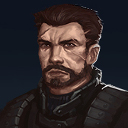
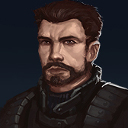
agent loyal, hotfix, CSS animations on close of selected components

diff --git a/src/client/mission/agentstier/buttons/missionendbutton.react.js b/src/client/mission/agentstier/buttons/missionendbutton.react.js
@@ -7,37 +7,36 @@ import Component from '../../../components/component.react';
 import React from 'react';
 import {msg} from '../../../intl/store';
 import immutable from 'immutable';
-// var io = require('socket.io-client');
+import $ from 'jquery';
 
 class MissionEndButton extends Component {
-  end() {
+  animateOut() {
+    const {mission, tutorial} = this.props;
+    $('#MissionResultsWindow').addClass('animated').one('webkitAnimationEnd mozAnimationEnd MSAnimationEnd oanimationend animationend', () => {
+      missionActions.end(mission);
+      if (tutorial && !tutorial.getIn(['firstmission', 'done']))
+        tutorialActions.firstMissionDone();
+      missionActions.removeCompletedMission();
+      missionActions.agentsAreBackFromMission();
+      missionActions.setDefault();
+    });
+  }
+
+  handleMissionEnd() {
     const {jsonapi, mission, tutorial} = this.props;
     const missionjs = mission.toJS();
-    // in order to actualize agentondisplay
-    // TODO: there must be some easy way to actualize the state of agent on display, gotta find it or else write function
     socket.emit('mission', missionjs); // eslint-disable-line no-undef
     socket.on('new mission', (gamemission) => { // eslint-disable-line no-undef
       const countrystats = jsonapi.get('countrystats');
       const countrystat = jsonapi.getIn(['countrystats', countrystats.indexOf(countrystats.find(countrystat => countrystat.get('name') === gamemission.inCountry))]);
-      // console.log('checking for obscurity save');
       var probability = Math.random();
       var border = 1 / (1 + 2 * countrystat.get('obscurity'));
       var chance = probability < border;
-      // console.log('border is' + border);
-      // console.log('probability is ' + probability);
-      // console.log('chance is ' + chance);
       if (chance)
         this.pushGameMission(gamemission);
       else
         setTimeout(briefingActions.flashBriefing('saved by obscurity'), 1000);
     });
-    missionActions.end(mission);
-    if (tutorial && !tutorial.getIn(['firstmission', 'done']))
-      tutorialActions.firstMissionDone();
-    missionActions.removeCompletedMission();
-    missionActions.agentsAreBackFromMission();
-    missionActions.setDefault();
-    window.history.back();
   }
 
   pushGameMission(mission) {
@@ -49,7 +48,10 @@ class MissionEndButton extends Component {
     return (
       <input
         id='MissionEndButton'
-        onClick={this.end.bind(this)}
+        onClick={(e) => {
+          this.handleMissionEnd.bind(this);
+          this.animateOut();
+        }}
         type='button'
         value={msg('mission.buttons.end')}
         />

diff --git a/src/client/briefing/missionlist.table.react.js b/src/client/briefing/missionlist.table.react.js
@@ -20,24 +20,28 @@ class MissionsListTable extends Component {
           />
       );
     });
+    console.log(missionlist);
 
     return (
       <div id='MissionsListTable'>
-        <table>
-          <thead>
-            <tr>
-              <th>{msg('briefing.missionlist.headers.title')}</th>
-              <th>{msg('briefing.missionlist.headers.region')}</th>
-              <th>{msg('briefing.missionlist.headers.tier')}</th>
-              <th>{msg('briefing.missionlist.headers.ETA')}</th>
-              <th>{msg('briefing.missionlist.headers.pass')}</th>
-              <th>{msg('briefing.missionlist.headers.specials')}</th>
-            </tr>
-          </thead>
-          <tbody>
-            {missionlist}
-          </tbody>
-        </table>
+        {missionlist.size &&
+          <table>
+            <thead>
+              <tr>
+                <th>{msg('briefing.missionlist.headers.title')}</th>
+                <th>{msg('briefing.missionlist.headers.region')}</th>
+                <th>{msg('briefing.missionlist.headers.tier')}</th>
+                <th>{msg('briefing.missionlist.headers.ETA')}</th>
+                <th>{msg('briefing.missionlist.headers.pass')}</th>
+                <th>{msg('briefing.missionlist.headers.specials')}</th>
+              </tr>
+            </thead>
+            <tbody>
+              {missionlist}
+            </tbody>
+          </table>}
+        {!missionlist.size &&
+          <div id='MissionListTablePlaceholder'>No Missions Available</div>}
       </div>
     );
   }

diff --git a/src/client/agents/scrollbar/agentscrollbar.react.js b/src/client/agents/scrollbar/agentscrollbar.react.js
@@ -15,16 +15,16 @@ class AgentScrollBar extends Component {
     ev.preventDefault();
   }
 
-  componentDidUpdate() {
-    const {agents, isAgents, isBriefing, isMission} = this.props;
-    const availableAgents = agents.filter(agent => !agent.get('prison')).filter(agent => !agent.get('KIA')).filter(agent => agent !== null);
-    if (availableAgents.size <= 3 && isAgents)
-      scrollbarActions.normalizeScrollbarLeft('armory');
-    if (availableAgents.size <= 3 && isBriefing)
-      scrollbarActions.normalizeScrollbarLeft('briefing');
-    if (agents.size <= 1 && isMission)
-      scrollbarActions.normalizeScrollbarLeft('mission');
-  }
+  // componentDidUpdate() {
+  //   const {agents, isAgents, isBriefing, isMission} = this.props;
+  //   const availableAgents = agents.filter(agent => !agent.get('prison')).filter(agent => !agent.get('KIA')).filter(agent => agent !== null);
+  //   if (availableAgents.size <= 3 && isAgents)
+  //     scrollbarActions.normalizeScrollbarLeft('armory');
+  //   if (availableAgents.size <= 3 && isBriefing)
+  //     scrollbarActions.normalizeScrollbarLeft('briefing');
+  //   if (agents.size <= 1 && isMission)
+  //     scrollbarActions.normalizeScrollbarLeft('mission');
+  // }
 
   drop(ev) {
     ev.preventDefault(ev);

diff --git a/src/client/local/en/stories.msg.js b/src/client/local/en/stories.msg.js
@@ -1,5 +1,14 @@
 const storiesMsg = {
-  anAnt: ``,
+  aFrog: [`Once there were two frogs and they both fell into bucket of milk.`,
+    `One of the frogs was a rational one, she knew that getting out was not possible
+    and so she stopped trying to jump out and drowned in it`, `the second one was a religous
+    nut or communist or whatever and so she tried and she tried, beating the milk with her
+    legs over and over, so that finally the milk turned to butter and she jumped out of it`],
+  anAnt: [`I noticed strange behavior of an ant once, he climbed to the top of the halm of grass and fell down,
+    relentlessly over and over, I was wondering why was he doing it?`, `It turns out the and has nothing to gain
+    from such behavior, it's a fluke, Lancet Fluke to be precise`, `It is a parasitic worm that has to get to
+    the sheeps intestines in order to continue his life cycle. It hijacks ants brain in order to achieve that.`],
+  anOtter: [``],
   evergreens: [],
   lakenyos: [`I see you bickering over some meaningless bad luck. My dad has survived
     lake Nyos if that means something to you.`, `In 1986 due to unknown cause a large

diff --git a/src/client/briefing/mission.list.toggle.react.js b/src/client/briefing/mission.list.toggle.react.js
@@ -1,4 +1,5 @@
 import './mission.list.toggle.styl';
+import * as animationsActions from '../animations/actions';
 import * as componentsActions from '../components/actions';
 import Component from '../components/component.react';
 import React from 'react';
@@ -14,11 +15,21 @@ class MissionListToggle extends Component {
     $(React.findDOMNode(this)).css('box-shadow', '0 0 40px white, 0 0 20px white inset');
   }
 
+  missionListToggle(e) {
+    e.preventDefault();
+    if (typeof ($('#MissionsListTable').val()) === 'string')
+      $('#MissionsListTable').addClass('animated').one('webkitAnimationEnd mozAnimationEnd MSAnimationEnd oanimationend animationend', () => {
+        // animationsActions.animationEnd(); //
+        componentsActions.missionListToggle();
+      });
+    else componentsActions.missionListToggle();
+  }
+
   render() {
     return (
       <div
         id='MissionListToggle'
-        onClick={(e) => componentsActions.missionListToggle()}
+        onClick={this.missionListToggle}
         onMouseLeave={this.dimTaskHelp.bind(this)}
         onMouseOver={this.highlightTaskHelp.bind(this)}>
       </div>

diff --git a/src/client/briefing/activemission/active.mission.toggle.off.react.js b/src/client/briefing/activemission/active.mission.toggle.off.react.js
@@ -4,6 +4,16 @@ import React from 'react';
 import $ from 'jquery';
 
 class ActiveMissionToggleOff extends Component {
+  activeMissionToggle(e) {
+    e.preventDefault();
+    if (typeof ($('.active-mission').val()) === 'string') // check if item is present in browser's DOM
+      $('.active-mission').addClass('animated').one('webkitAnimationEnd mozAnimationEnd MSAnimationEnd oanimationend animationend', () => {
+        // animationsActions.animationEnd(); //
+        componentsActions.activeMissionToggle();
+      });
+    else componentsActions.activeMissionToggle();
+  }
+
   dimDot() {
     $(React.findDOMNode(this)).css('box-shadow', '');
   }
@@ -16,7 +26,7 @@ class ActiveMissionToggleOff extends Component {
     return (
       <div
         id='ActiveMissionToggleOff'
-        onClick={(e) => componentsActions.activeMissionToggle()}
+        onClick={this.activeMissionToggle}
         onMouseLeave={this.dimDot.bind(this)}
         onMouseOver={this.highlightDot.bind(this)}>
       </div>

diff --git a/src/client/mission/results/window.react.js b/src/client/mission/results/window.react.js
@@ -12,12 +12,12 @@ import $ from 'jquery';
 import MissionEndButton from '../agentstier/buttons/missionendbutton.react';
 
 class MissionResultsWindow extends Component {
-  vszuuut() {
-    // console.log('vžút');
-    // console.log(React.findDOMNode(this));
-    // Works!
-    $(React.findDOMNode(this)).hide().slideDown().show();
-  }
+  // vszuuut() {
+  //   // console.log('vžút');
+  //   // console.log(React.findDOMNode(this));
+  //   // Works!
+  //   $(React.findDOMNode(this)).hide().slideDown().show();
+  // }
 
   render() {
     const {jsonapi} = this.props;
@@ -37,9 +37,7 @@ class MissionResultsWindow extends Component {
     //
 
     return (
-      <div
-        id="MissionResultsWindow"
-        onClick={this.vszuuut.bind(this)}>
+      <div id="MissionResultsWindow">
           {activemission.get('tag') === 'discovered' && result === 'success' &&
             <p>{
               `${activemission.get('agentsonmission').get(0).get('name')} escaped the pursuers.`

diff --git a/src/client/agents/agentcard/agent.profile.react.js b/src/client/agents/agentcard/agent.profile.react.js
@@ -19,7 +19,14 @@ class AgentProfile extends Component {
     const {agent, agentbeingsaved, self} = this.props;
     const beingsaved = agentbeingsaved ? agentbeingsaved.get('id') === agent.get('id') : false;
     const classString = classnames('', {'showcased': this.props.isShowcased});
-    const formattedImg = this.props.isShowcased ? agent.get('imgsrc').replace('_128', '_sc') : agent.get('imgsrc');
+    const isLoyal = agent.get('loyalty') === 'loyal';
+    let formattedImg = (this.props.isShowcased && isLoyal)
+      ? agent.get('imgsrc').replace('_128', 'L_sc')
+      : this.props.isShowcased
+      ? agent.get('imgsrc').replace('_128', '_sc')
+      : isLoyal
+      ? agent.get('imgsrc').replace('_128', 'L_128')
+      : agent.get('imgsrc');
 
     return (
       <div className={'agent-profile ' + classString}>

diff --git a/src/client/briefing/activemission/active.mission.toggle.react.js b/src/client/briefing/activemission/active.mission.toggle.react.js
@@ -5,6 +5,16 @@ import React from 'react';
 import $ from 'jquery';
 
 class ActiveMissionToggle extends Component {
+  // activeMissionToggle(e) {
+  //   e.preventDefault();
+  //   if (typeof ($('.active-mission').val()) === 'string') // check if item is present in browser's DOM
+  //     $('.active-mission').addClass('animated').one('webkitAnimationEnd mozAnimationEnd MSAnimationEnd oanimationend animationend', () => {
+  //       // animationsActions.animationEnd(); //
+  //       componentsActions.activeMissionToggle();
+  //     });
+  //   else componentsActions.activeMissionToggle();
+  // }
+
   dimMonitor() {
     $(React.findDOMNode(this)).css('box-shadow', '');
   }

diff --git a/src/client/briefing/activemission/mission.thumbnail.react.js b/src/client/briefing/activemission/mission.thumbnail.react.js
@@ -26,9 +26,9 @@ class MissionThumbnail extends Component {
       <div
         id='ActualMissionThumbnail'
         onClick={this.toggleShowMissionDescriptionText}
-        style={{}/*{backgroundImage: `url('../../../../assets/img/missions/thumbnails/${imgsrc}')`}*/}>
-        {thumbnailtext &&
-          <div id='MissionDescription'>{msg('mission.descriptions.' + missiontag)}</div>}
+        style={{backgroundImage: `url('../../../../assets/img/missions/thumbnails/${imgsrc}')`}}>
+        {/*thumbnailtext &&
+          <div id='MissionDescription'>{msg('mission.descriptions.' + missiontag)}</div>*/}
       </div>
     );
   }

diff --git a/webpack/makeconfig.js b/webpack/makeconfig.js
@@ -27,7 +27,7 @@ module.exports = function(isDevelopment) {
       loader: ExtractTextPlugin.extract('style-loader', 'css-loader'),
       test: /\.css$/
     }, {
-      loader: ExtractTextPlugin.extract('style-loader', 'css-loader!'),
+      loader: ExtractTextPlugin.extract('style-loader', 'css-loader!autoprefixer-loader?browsers=last 2 version!stylus-loader'),
       test: /\.styl$/
     }];
 

diff --git a/src/client/briefing/taskhelp.overview.react.js b/src/client/briefing/taskhelp.overview.react.js
@@ -23,7 +23,10 @@ class TaskHelpOverview extends Component {
     });
     return (
       <div id='TaskHelpOverview'>
-        {actualmissiontasks}
+        {!!actualmissiontasks.size &&
+          actualmissiontasks}
+        {!actualmissiontasks.size &&
+          <div id='TaskHelpOverviewPlaceholder'>No Tasks for selected mission</div>}
       </div>
     );
   }
